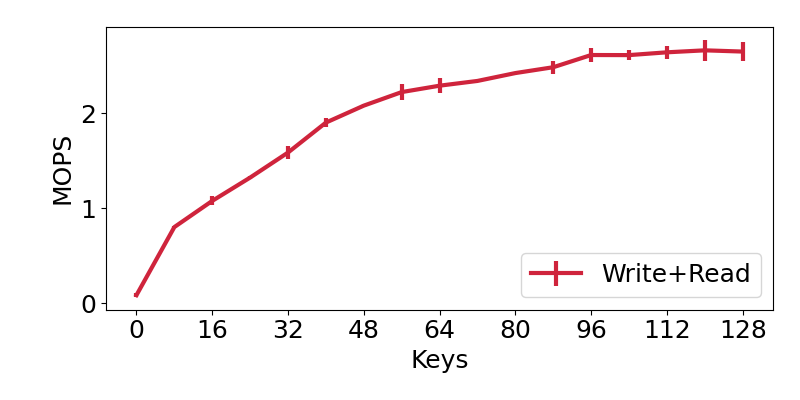
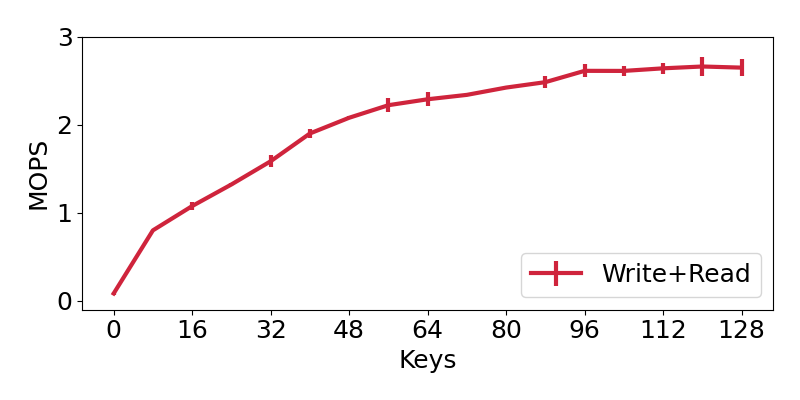
adjusted fig 14 yaxis

diff --git a/papers/sigcomm2023/fig/keys_tracked.py b/papers/sigcomm2023/fig/keys_tracked.py
@@ -58,6 +58,7 @@ rects1 = ax.errorbar(keys, tput, yerr=terr, color=read_write_steering_color, lin
 
 # Add some text for labels, title and custom x-axis tick labels, etc.
 ax.set_ylabel('MOPS')
+ax.set_ylim(-0.1, 3)
 ax.set_xticks(x_lab)
 ax.set_xticklabels(keys_label)
 ax.set_xlabel("Keys")
